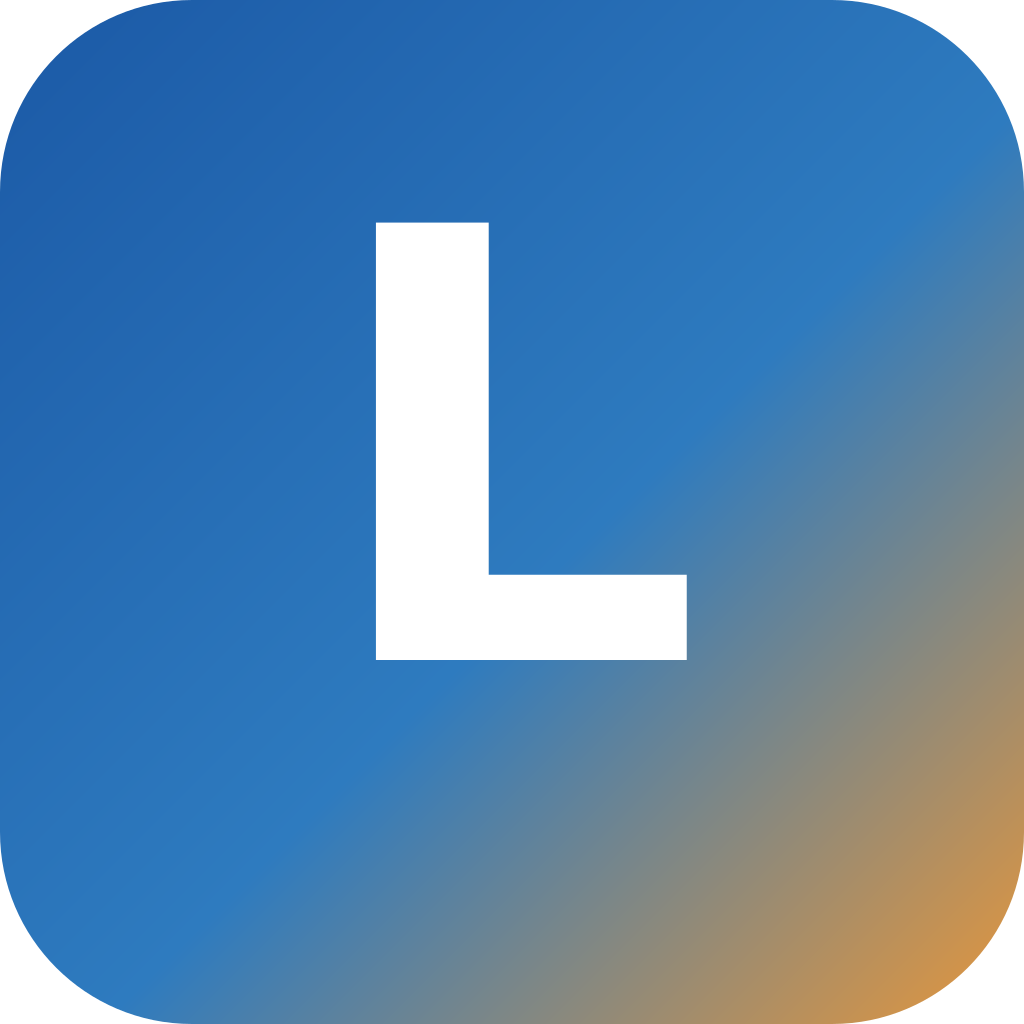
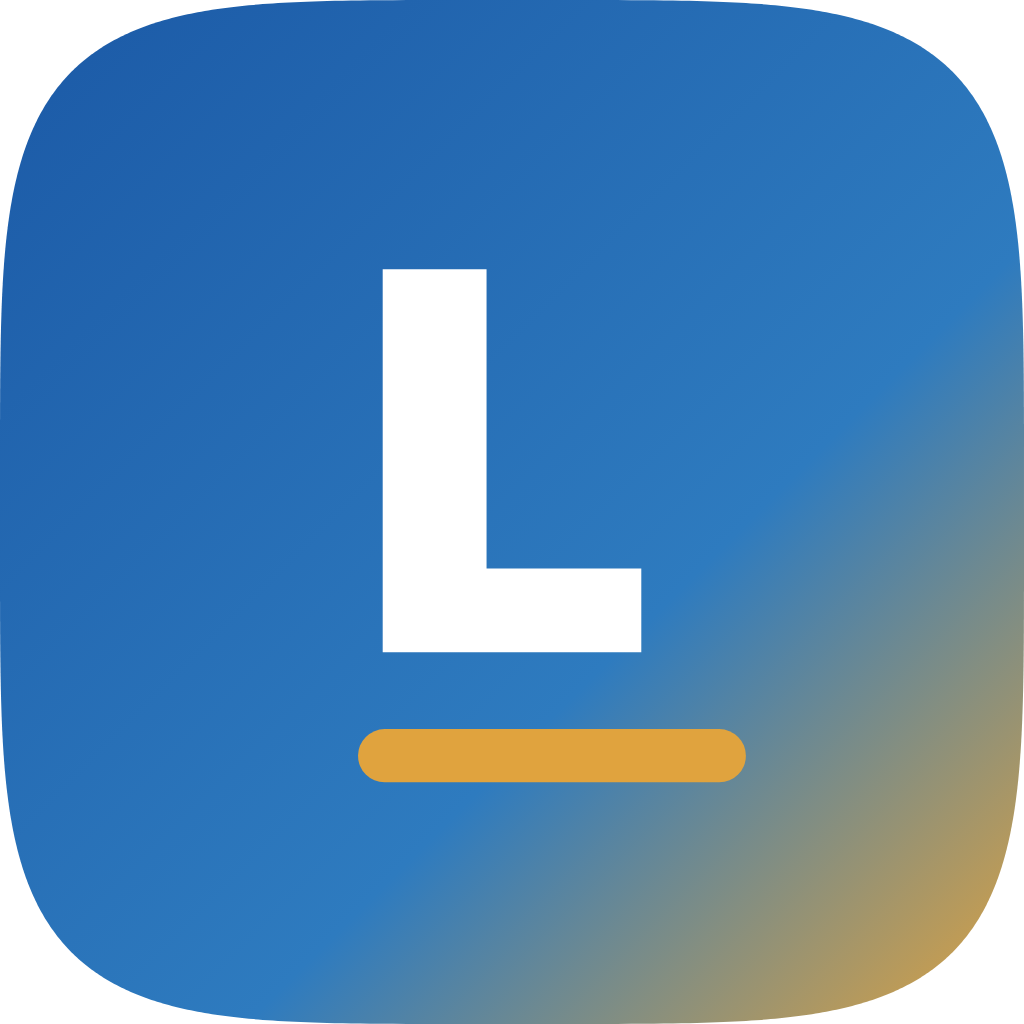
One mark, and a share card that stopped promising a month
There were three logos in this repo and no two matched. The header
was a CSS recipe, and a CSS recipe cannot be uploaded to Instagram,
so every other surface got a PNG somebody made separately and
nothing could compare them.

The two stop gradient was a defect rather than a style. Blue to
amber corner to corner averages to olive across the middle. It
survives at 34px because that band is three pixels wide. On an
avatar it is a third of the picture. The wordmark had already
solved this with a three stop gradient and nobody carried it across.

The mark is now public/lekhio-mark.svg: a superellipse, the
wordmark's three stops, a white L as a vector path so it cannot
reflow, and a straight saffron rule running past the letter's foot.
Every PNG is rendered from that file and the site loads it.

And app/opengraph-image.png, the picture every shared link renders,
said "30 days free". TRIAL_DAYS is 7. We were advertising a month
and giving a week on every link anybody shared, and the only reason
it survived is that nobody re-reads a PNG. Rebuilt from the live
homepage copy, and a test now fails the build if any trial length
in code disagrees with TRIAL_DAYS.

diff --git a/app/_shared/site.tsx b/app/_shared/site.tsx
@@ -995,7 +995,34 @@ a{text-decoration:none}
 /* brand mark: gradient L chip + wordmark. The L is the primary logo (Jag's
    call, 17 Jul): the same gradient mark the app uses, one logo everywhere. */
 .brandrow{display:inline-flex;align-items:center;gap:10px}
-.logo-chip{width:34px;height:34px;border-radius:10px;background:linear-gradient(135deg,var(--river),var(--saffron));display:inline-flex;align-items:center;justify-content:center;color:#fff;font-weight:900;font-size:19px;box-shadow:0 6px 16px rgba(27,89,166,.35)}
+/* ═══════════════════════════════════════════════════════════════════════════════════════════
+   🔴 THE MARK IS A FILE NOW, NOT A CSS RECIPE. 10 AUGUST 2026.
+
+   This was width:34;height:34;border-radius:10;background:linear-gradient(135deg,--river,--saffron)
+   with a letter L inside it, and the comment above it said "one logo everywhere". It was not.
+   A CSS recipe cannot be uploaded to Instagram, so every other surface got a PNG somebody made
+   separately, and by this morning there were THREE marks in this repo, all different:
+
+     app/icon.png + apple-icon.png   dark navy, square corners, a river under the L
+     public/lekhio-icon-1024.png     brighter blue, rounder, no river
+     this chip                       a third gradient again
+
+   None of them matched. The Instagram avatar was set from the middle one and was simply wrong.
+
+   ⚠ AND THE TWO STOP GRADIENT WAS A DEFECT, NOT A STYLE. Blue to amber corner to corner averages
+   to olive across the middle. You get away with it at 34px because that band is three pixels wide.
+   On an avatar it is a third of the picture. public/lekhio-logo.svg, the wordmark, had ALREADY
+   solved this with a three stop gradient through #2E7BBF. The chip never got the fix.
+
+   So the mark is public/lekhio-mark.svg: a superellipse, the wordmark's three stop gradient, and
+   the L AS A VECTOR PATH rather than live text, so it cannot reflow if Inter fails to load. Every
+   PNG in the repo is rendered from that one file, and so is every social avatar. The site loads
+   the same file it ships, which is the only arrangement where "one logo everywhere" is a fact
+   rather than a comment.
+
+   ⚠ drop-shadow, NOT box-shadow: box-shadow would draw the old rectangle's shadow around a shape
+   that is no longer a rectangle. */
+.logo-chip{width:34px;height:34px;display:block;filter:drop-shadow(0 6px 16px rgba(27,89,166,.35))}
 .logo-word{font-size:23px;font-weight:900;letter-spacing:-1px;color:var(--tx)}
 @keyframes riseIn{from{opacity:0;transform:translateY(20px)}to{opacity:1;transform:none}}
 @keyframes flow{to{stroke-dashoffset:0}}
@@ -1245,7 +1272,11 @@ export function SiteNav() {
   return (
     <nav style={{ position: 'relative', maxWidth: 1320, margin: '0 auto', padding: '22px 24px', display: 'flex', alignItems: 'center', justifyContent: 'space-between' }}>
       <Link href="/" aria-label="Lekhio home" className="brandrow">
-        <span className="logo-chip">L</span>
+        {/* The same file the PNGs, the favicon and every social avatar are rendered from.
+            alt is empty on purpose: the Link already carries aria-label="Lekhio home", so a
+            second label here would read the brand twice to a screen reader. */}
+        {/* eslint-disable-next-line @next/next/no-img-element */}
+        <img src="/lekhio-mark.svg" alt="" width={34} height={34} className="logo-chip" />
         <span className="logo-word">Lekhio</span>
       </Link>
 
